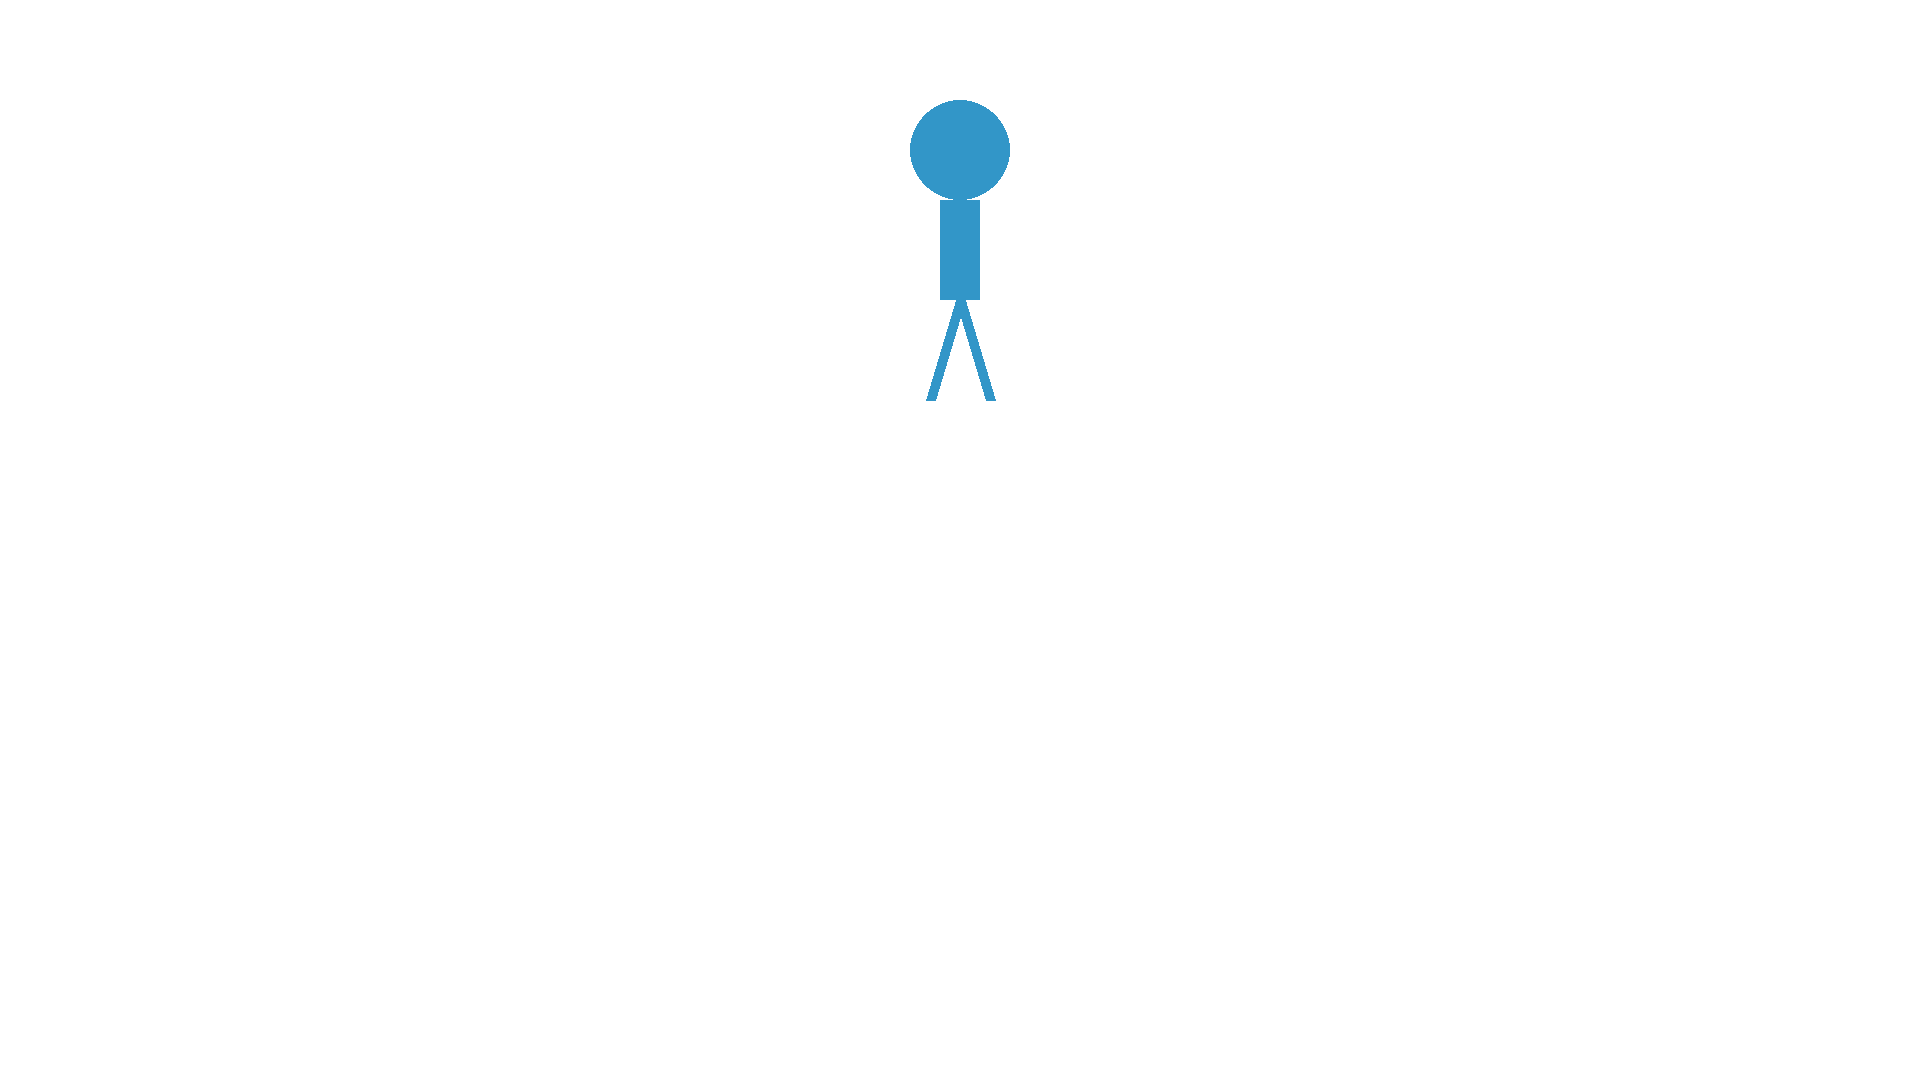
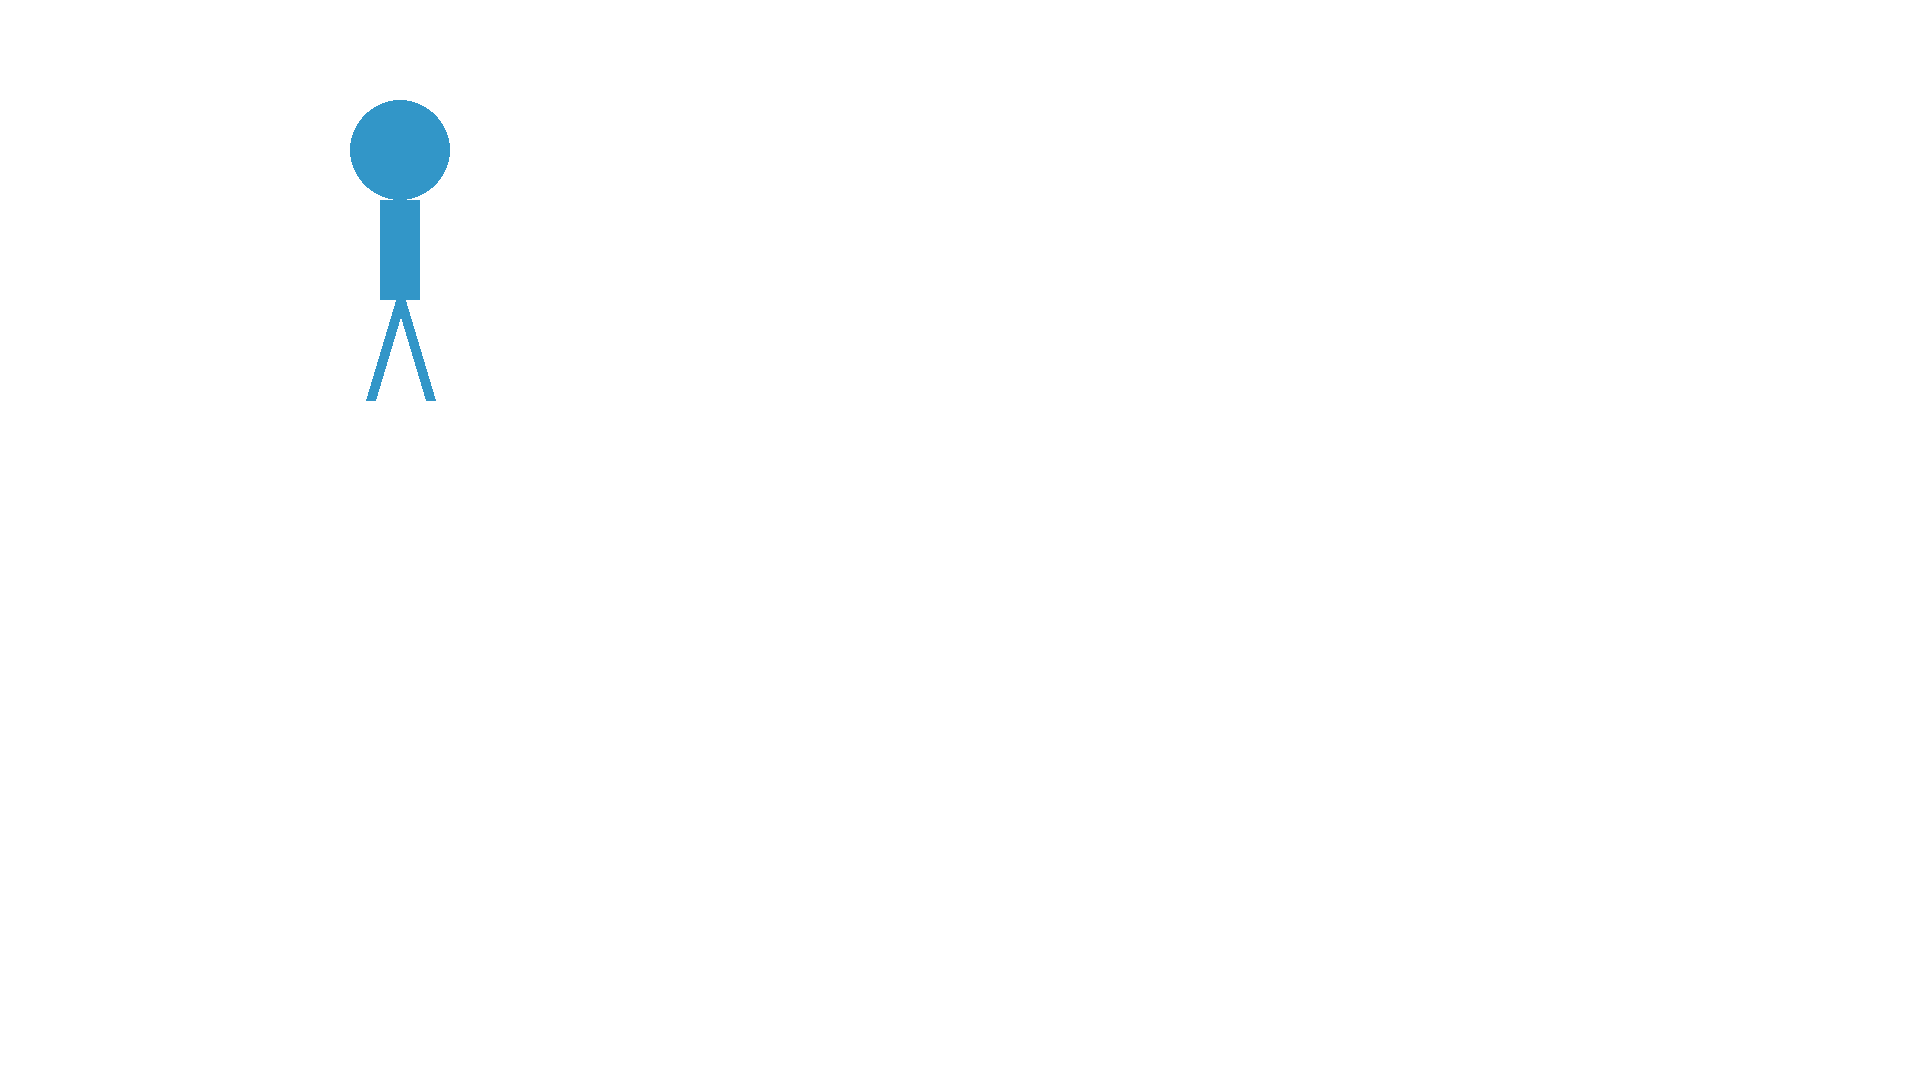
Implemented entire custom character except custom collisions and premade characters

Changed region(s): [[0.4688, 0.0917, 0.5312, 0.3667], [0.1562, 0.0917, 0.25, 0.3667]]

diff --git a/src/player.py b/src/player.py
@@ -55,7 +55,13 @@ class Player:
 
     def draw(self, screen, character):
         chrect = pig.Rect(self.x, self.y, self.width, self.height)
-        screen.blit(character.sprite.image, pig.Rect((self.x - 400, self.y -400, 5, 5)))#(self.x, self.y))
+        cim = pig.image.load(character)
+        #scale = (float("."+f"{self.width}"), float("."+f"{self.height}"))
+        scale = (540, 400)
+        image = pig.transform.scale(cim, scale)
+        #add custom character collisions here
+        image.get_rect()
+        screen.blit(image,(self.x-100, self.y-150))
         if self.aiming:
             pig.draw.line(screen, (0, 255, 0), self.arrow_pos, self.arrow_end_pos, 2)
 
@@ -203,7 +209,7 @@ class Player:
         if self.velocity_x < 0:
             self.velocity_x += 0.01
 
-        self.trail.append((self.x, self.y))  # Add current position to trail
+        self.trail.append((self.x+10, self.y-100))  # Add current position to trail
 
         if len(self.trail) > 20:  # Limit the trail length to 10
             self.trail.pop(0)  # Remove the oldest position

diff --git a/src/Character_creation.py b/src/Character_creation.py
@@ -152,11 +152,12 @@ def finish():
     #body_height //= 4
     #leg_length //= 4
     #draw_character()
-    character_sprite = pygame.sprite.GroupSingle()
-    character_sprite.add(pygame.sprite.Sprite())
-    character_sprite.sprite.image = background.copy()
-    shapes.clear()
-    return character_sprite
+    #character_sprite = pygame.sprite.GroupSingle()
+    #character_sprite.add(pygame.sprite.Sprite())
+    #character_sprite.sprite.image = background.copy()
+    #shapes.clear()
+    export_character(path + r"\\terraria_styled_game\\characters\\current.png")
+    return path + r"\\terraria_styled_game\\characters\\current.png"
 
 def reset_character():
     global head_size, body_height, shapes

diff --git a/src/main.py b/src/main.py
@@ -75,6 +75,6 @@ if __name__ == "__main__":
         terrain_gen.camera_x += vx
         terrain_gen.camera_y += vy
         player.draw(screen, player_sprite)
-        #player.draw_trail(screen)
+        player.draw_trail(screen)
         pig.display.flip()
         clock.tick(60)
